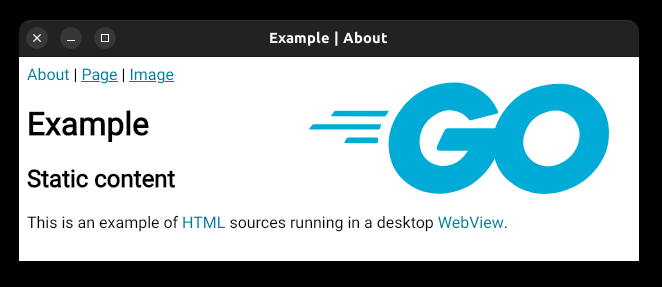
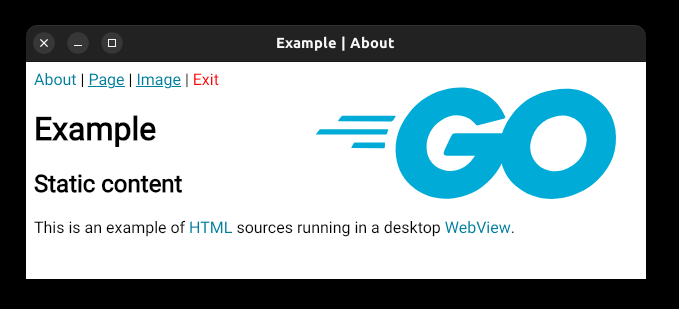
Support source window.close() equiv.

Changed region(s): [[0.0302, 0.0557, 0.9668, 0.9199], [0.3927, 0.1115, 0.6042, 0.1672], [0.1511, 0.1115, 0.1813, 0.1672]]

diff --git a/src/index.html b/src/index.html
@@ -14,6 +14,8 @@
         <a href="page.html">Page</a>
           |
         <a href="image.html">Image</a>
+          |
+        <a id="webview-close">Exit</a>
       </nav>
 
       <h1 class="title">Example</h1>

diff --git a/src/page.html b/src/page.html
@@ -14,6 +14,8 @@
         <a>Page</a>
           |
         <a href="image.html">Image</a>
+          |
+        <a id="webview-close">Exit</a>
       </nav>
 
       <h1 class="title">Example</h1>

diff --git a/src/image.html b/src/image.html
@@ -14,6 +14,8 @@
         <a href="page.html">Page</a>
           |
         <a>Image</a>
+          |
+        <a id="webview-close">Exit</a>
       </nav>
 
       <h1 class="title">Example</h1>

diff --git a/src/css/example.css b/src/css/example.css
@@ -23,3 +23,8 @@ a {
 nav a[href] {
   text-decoration: underline;
 }
+
+#webview-close {
+  color: #ff0000;
+  cursor: pointer;
+}

diff --git a/lib/script.go b/lib/script.go
@@ -56,7 +56,7 @@ async function updateImages() {
  * Replace HTML anchor link locations.
  */
 async function updateLinks() {
-  var nodes = document.querySelectorAll('a[href]');
+  var nodes = document.querySelectorAll('a');
 
   for (var i = 0; i < nodes.length; i++) {
     var node = nodes[i];
@@ -64,7 +64,9 @@ async function updateLinks() {
     node.addEventListener('click', async function(event) {
       event.preventDefault();
 
-      await window.browser_Load(this.getAttribute('href'));
+      await (this.id !== 'webview-close')
+        ? window.browser_Load(this.getAttribute('href'))
+        : window.browser_Terminate()
     });
   }
 }

diff --git a/src.go b/src.go
@@ -38,6 +38,7 @@ var settings = lib.BrowserSettings{
 func main() {
 	htmlDoc, _ := readFile("index.html")
 	browser := lib.NewBrowser(string(htmlDoc), settings)
+	browser.LoadScript(lib.InitScript())
 
 	// Define browser WebView script bindings.
 	browser.BindFuncReturn("browser_Get", func(arg ...string) string {
@@ -68,7 +69,10 @@ func main() {
 		browser.SetTitle(arg[0])
 	})
 
-	browser.LoadScript(lib.InitScript())
+	browser.BindFuncVoid("browser_Terminate", func(_ ...string) {
+		browser.Close()
+	})
+
 	browser.Open()
 }
 

diff --git a/lib/browser.go b/lib/browser.go
@@ -61,6 +61,11 @@ func (browser *Browser) Open() {
 	browser.WebView.Run()
 }
 
+// Close the WebView window.
+func (browser *Browser) Close() {
+	browser.WebView.Terminate()
+}
+
 // Load JavaScript during page initialization event.
 func (browser *Browser) LoadScript(js string) {
 	browser.WebView.Init(js)

diff --git a/README.md b/README.md
@@ -60,6 +60,16 @@ src    // HTML markup and related sources.
 src.go // main
 ```
 
+## Closing the WebView
+
+Outside of the **UI close button**, you can trigger the WebView termination event by adding `id="webview-close"` to an anchor link.
+
+### Example
+
+```txt
+<a id="webview-close">Exit</a>
+```
+
 ## References
 
 - [webview_go](https://github.com/webview/webview_go) - Go language binding for the webview library.
